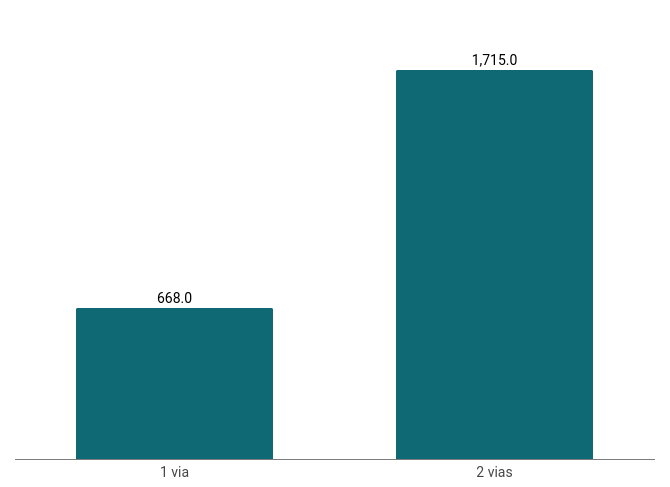
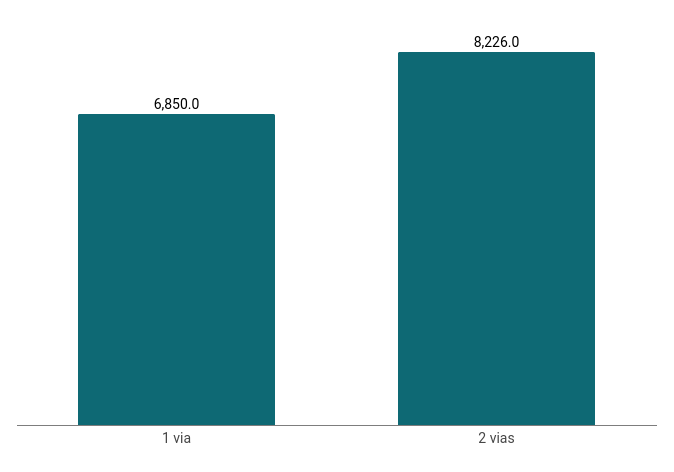
Informe

diff --git a/Informe.md b/Informe.md
@@ -247,51 +247,81 @@ Reescribir el código utilizando técnicas estáticas de mejora, como loop unrol
 * Codigo optimizado: 
 
 ```
-// Cargar Alpha en d10
-ldr     d10, [x10]
-
-// Inicializar índice y tamaño del desenrollado
-mov     x5, 0               // Índice i
-mov     x6, 8               // Desenrollar 8 iteraciones por ciclo
+	// Preparar los registros
+    ldr     x0, N           // Tamaño del vector (N)
+    ldr     x10, =Alpha     // Dirección de Alpha
+    ldr     x2, =X          // Dirección base de X
+    ldr     x3, =Y          // Dirección base de Y
+    ldr     x4, =Z          // Dirección base de Z
+    ldr     d10, [x10]      // Cargar Alpha en d10
+    mov     x5, 0           // Inicializar índice i
+    mov     x6, 8           // Desenrollar 8 iteraciones por ciclo
 
 .L2:
     cmp     x5, x0          // Comparar i con N
     b.ge    .L1             // Si i >= N, salir del bucle
 
-    // Prefetch para minimizar conflictos
-    prfm    pldl1strm, [x2, x5, lsl #3] // Prefetch X
-    prfm    pldl1strm, [x3, x5, lsl #3] // Prefetch Y
-    prfm    pldl1strm, [x4, x5, lsl #3] // Prefetch Z
+    // Leer 8 valores consecutivos de X
+    mov     x7, x5          // Base temporal
+    lsl     x7, x7, #3      // x7 = x5 * 8
+    ldr     d0, [x2, x7]         // Cargar X[i]
+    add     x7, x7, #8
+    ldr     d1, [x2, x7]         // Cargar X[i+1]
+    add     x7, x7, #8
+    ldr     d2, [x2, x7]         // Cargar X[i+2]
+    add     x7, x7, #8
+    ldr     d3, [x2, x7]         // Cargar X[i+3]
+    add     x7, x7, #8
+    ldr     d4, [x2, x7]         // Cargar X[i+4]
+    add     x7, x7, #8
+    ldr     d5, [x2, x7]         // Cargar X[i+5]
+    add     x7, x7, #8
+    ldr     d6, [x2, x7]         // Cargar X[i+6]
+    add     x7, x7, #8
+    ldr     d7, [x2, x7]         // Cargar X[i+7]
 
-    // Procesar la primera iteración del bucle
-    ldr     d0, [x2, x5, lsl #3]
-    ldr     d1, [x3, x5, lsl #3]
-    fmul    d2, d10, d0
-    fadd    d3, d2, d1
-    str     d3, [x4, x5, lsl #3]
+    // Leer 8 valores consecutivos de Y
+    mov     x7, x5
+    lsl     x7, x7, #3      // x7 = x5 * 8
+    ldr     d8, [x3, x7]         // Cargar Y[i]
+    add     x7, x7, #8
+    ldr     d9, [x3, x7]         // Cargar Y[i+1]
+    add     x7, x7, #8
+    ldr     d10, [x3, x7]        // Cargar Y[i+2]
+    add     x7, x7, #8
+    ldr     d11, [x3, x7]        // Cargar Y[i+3]
+    add     x7, x7, #8
+    ldr     d12, [x3, x7]        // Cargar Y[i+4]
+    add     x7, x7, #8
+    ldr     d13, [x3, x7]        // Cargar Y[i+5]
+    add     x7, x7, #8
+    ldr     d14, [x3, x7]        // Cargar Y[i+6]
+    add     x7, x7, #8
+    ldr     d15, [x3, x7]        // Cargar Y[i+7]
 
-    // Procesar la segunda iteración
-    add     x7, x5, 1       // Calcular índice i + 1
-    ldr     d4, [x2, x7, lsl #3]
-    ldr     d5, [x3, x7, lsl #3]
-    fmul    d6, d10, d4
-    fadd    d7, d6, d5
-    str     d7, [x4, x7, lsl #3]
+    // Operaciones Z[i] = Alpha * X[i] + Y[i] para 8 elementos
+    mov     x7, x5
+    lsl     x7, x7, #3
+    fmul    d16, d0, d10
+    fadd    d17, d16, d8
+    str     d17, [x4, x7]
 
-    // Procesar la tercera iteración
-    add     x8, x5, 2       // Calcular índice i + 2
-    ldr     d8, [x2, x8, lsl #3]
-    ldr     d9, [x3, x8, lsl #3]
-    fmul    d10, d10, d8
-    fadd    d11, d10, d9
-    str     d11, [x4, x8, lsl #3]
+    add     x7, x7, #8
+    fmul    d16, d1, d10
+    fadd    d17, d16, d9
+    str     d17, [x4, x7]
+
+    add     x7, x7, #8
+    fmul    d16, d2, d10
+    fadd    d17, d16, d10
+    str     d17, [x4, x7]
 
     // Incrementar índice
-    add     x5, x5, x6       // i += 8
-
+    add     x5, x5, x6      // i += 8
     b       .L2             // Repetir el bucle
 
 .L1:
+
 ```
 
 ### Resultados obtenidos
@@ -321,7 +351,7 @@ mov     x6, 8               // Desenrollar 8 iteraciones por ciclo
 
 !Aclaración: La dimensión "y" de los siguientes graficos son la cantidad de ciclos.
 
-| Cantidad de ciclos ociosos | Cantidad de ciclos por vías de caché |
+| Cantidad de ciclos ociosos | Cantidad de ciclos |
 |-----------------|----------------|
 | ![Gráficos de resultados 5](./graficos/grafico_idleCycles_opt.png) | ![Gráficos de resultados 6](./graficos/grafico_numCycles_opt.png) |
 
@@ -332,7 +362,9 @@ mov     x6, 8               // Desenrollar 8 iteraciones por ciclo
 |-----------------|----------------|
 | ![Gráficos de resultados 5](./graficos/grafico_overallHits_opt.png) | ![Gráficos de resultados 6](./graficos/grafico_readReq.hits_opt.png) |
 
-A la hora de ver la cantidad de ciclos ociosos o de ciclos ejecutados se obtuvo un rendimiento parecido, pero la cantidad de hits a caché no logramos obtener el mismo rendimiento.
+Pudimos optimizar el código de forma que la cantidad de ciclos es casi la misma para la caché de una o dos vías y se hacen muchos menos ciclos que sin optimizar.
+
+En caso de hits a caché, pudimos aumentar la cantidad de hits en los dos casos. Principalmente en el caso de la caché de mapeo directo que sin optimizar el código se hacían alrededor de unos 800, mientras que ahora se generan unos 6900 hits.
 
 
 ## f)
@@ -355,6 +387,10 @@ Ejecutar la simulación utilizando el procesador out-of-order con las caracterí
 | Cantidad de hits en la caché | Cantidad de hits de lectura en la caché |
 |-----------------|----------------|
 | ![Gráficos de resultados 5](./graficos/grafico_overallHits_out-of-order.png) | ![Gráficos de resultados 6](./graficos/grafico_readReq.hits_out-of-order.png) |
+
+Se puede observar que el procesador out-of-order hace menos ciclos y sobre todo menos cantidad de ciclos ociosos gracias a la capacidad que tiene de reorganizar las instrucciones, evitando asi cualquier tipo de dependecia de datos o instrucciones.
+
+El procesador in-order accede a la memoria de manera secuencial, lo que permite un mejor rendimiento. Por ejemplo, en un bucle, los datos almacenados contiguamente en memoria pueden ser procesados eficientemente, reutilizando las líneas de caché con alta frecuencia. En contraste, el procesador out-of-order ejecuta las instrucciones de manera no secuencial, lo que puede reducir la eficiencia de la reutilización de la caché.
 
 ## 2. Ejercicio 2
 
@@ -672,3 +708,153 @@ Se puede observar que obtenemos una cantidad similar de hits a la memoria, pero 
 Esto se debe a la capacidad que tiene el procesador out-of-order de ejecutar las instrucciones en un orden diferente al que fue escrito, evitando así secuencias de instrucciones con dependencias de valores (hazards) dejando la menor cantidad de de ciclos de espera.
 
 ## 3. Ejercicio 3
+## a) 
+
+* Codigo en assembler ARMv8:
+  
+```
+.data
+N:       .dword 1000
+Array:   .space 8000  // 1000 elementos de 8 bytes (double)
+.text
+.global _start
+_start:
+    // Inicializar el arreglo
+    ldr     x0, =Array
+    ldr     x6, N
+    mov     x1, 1234
+    mov     x5, 0
+    // Parámetros LCG
+    movz    x2, 0x19, lsl 16
+    movk    x2, 0x660D, lsl 0
+    movz    x3, 0x3C6E, lsl 16
+    movk    x3, 0xF35F, lsl 0
+    movz    x4, 0xFFFF, lsl 16
+    movk    x4, 0xFFFF, lsl 0
+random_array:
+    // Calculate the next pseudorandom value
+    mul x1, x1, x2          // x1 = x1 * multiplier
+    add x1, x1, x3          // x1 = x1 + increment
+    and x1, x1, x4          // x1 = x1 % modulus
+    str x1, [x0, x5, lsl #3] // Store the updated seed back to memory
+    add x5, x5, 1           // Increment array counter
+    cmp x5, x6              // Verify if process ended
+    b.lt random_array
+    // Ordenamiento por burbuja
+    ldr x0, =Array          // Load array base address to x0
+    ldr x6, =N              // Load the number of elements into x6
+    ldr x6, [x6]
+    sub x6, x6, 1           // N - 1
+bubble_sort:
+    mov x1, #0              // i = 0
+outer_loop:
+    cmp x1, x6              // Compare i with N-1
+    bge end_sort            // If i >= N-1, end sorting
+    mov x2, #0              // j = 0
+inner_loop:
+    cmp x2, x6              // Compare j with N-1
+    bge next_outer          // If j >= N-1, go to next outer loop
+    lsl x3, x2, #3          // j * 8
+    add x4, x0, x3          // Address of Array[j]
+    ldr x7, [x4]            // Load Array[j] into x7
+    ldr x8, [x4, #8]        // Load Array[j+1] into x8
+    cmp x7, x8              // Compare Array[j] with Array[j+1]
+    ble skip_swap           // If Array[j] <= Array[j+1], skip swap
+    // Swap Array[j] and Array[j+1]
+    str x8, [x4]            // Store Array[j+1] into Array[j]
+    str x7, [x4, #8]        // Store Array[j] into Array[j+1]
+skip_swap:
+    add x2, x2, 1           // Increment j
+    b inner_loop            // Repeat inner loop
+next_outer:
+    add x1, x1, 1           // Increment i
+    b outer_loop            // Repeat outer loop
+end_sort:
+    // Fin del programa
+    mov     x0, #0                  // Código de salida 0
+    mov     x8, #93                 // syscall: exit
+    svc     #0
+```
+## b)
+* Codigo en assembler ARMv8 utilizando instrucciones condicionales:
+```
+.data
+N:       .dword 1000
+Array:   .space 8000  // 1000 elementos de 8 bytes (double)
+
+.text
+.global _start
+
+_start:
+    // Inicializar el arreglo
+    ldr     x0, =Array
+    ldr     x6, =N
+    ldr     x6, [x6]
+    mov     x1, 1234
+    mov     x5, 0
+
+    // Parámetros LCG
+    movz    x2, 0x19, lsl 16
+    movk    x2, 0x660D, lsl 0
+    movz    x3, 0x3C6E, lsl 16
+    movk    x3, 0xF35F, lsl 0
+    movz    x4, 0xFFFF, lsl 16
+    movk    x4, 0xFFFF, lsl 0
+
+random_array:
+    // Calculate the next pseudorandom value
+    mul x1, x1, x2          // x1 = x1 * multiplier
+    add x1, x1, x3          // x1 = x1 + increment
+    and x1, x1, x4          // x1 = x1 % modulus
+
+    str x1, [x0, x5, lsl #3] // Store the updated seed back to memory
+    add x5, x5, 1           // Increment array counter
+    cmp x5, x6              // Verify if process ended
+    b.lt random_array
+
+    // Ordenamiento por burbuja
+    ldr x0, =Array          // Load array base address to x0
+    ldr x6, =N              // Load the number of elements into x6
+    ldr x6, [x6]
+    sub x6, x6, 1           // N - 1
+
+bubble_sort:
+    mov x1, #0              // i = 0
+
+outer_loop:
+    cmp x1, x6              // Compare i with N-1
+    cset x7, lt             // Set x7 to 1 if i < N-1, otherwise 0
+    cbz x7, end_sort        // If x7 is 0, end sorting
+
+    mov x2, #0              // j = 0
+
+inner_loop:
+    cmp x2, x6              // Compare j with N-1
+    cset x7, lt             // Set x7 to 1 if j < N-1, otherwise 0
+    cbz x7, next_outer      // If x7 is 0, go to next outer loop
+
+    lsl x3, x2, #3          // j * 8
+    add x4, x0, x3          // Address of Array[j]
+    ldr x8, [x4]            // Load Array[j] into x8
+    ldr x9, [x4, #8]        // Load Array[j+1] into x9
+
+    cmp x8, x9              // Compare Array[j] with Array[j+1]
+    csel x10, x8, x9, le    // Select the smaller value
+    csel x11, x9, x8, le    // Select the larger value
+
+    str x10, [x4]           // Store the smaller value in Array[j]
+    str x11, [x4, #8]       // Store the larger value in Array[j+1]
+
+    add x2, x2, 1           // Increment j
+    b inner_loop            // Repeat inner loop
+
+next_outer:
+    add x1, x1, 1           // Increment i
+    b outer_loop            // Repeat outer loop
+
+end_sort:
+    // Fin del programa
+    mov     x0, #0                  // Código de salida 0
+    mov     x8, #93                 // syscall: exit
+    svc     #0
+```
